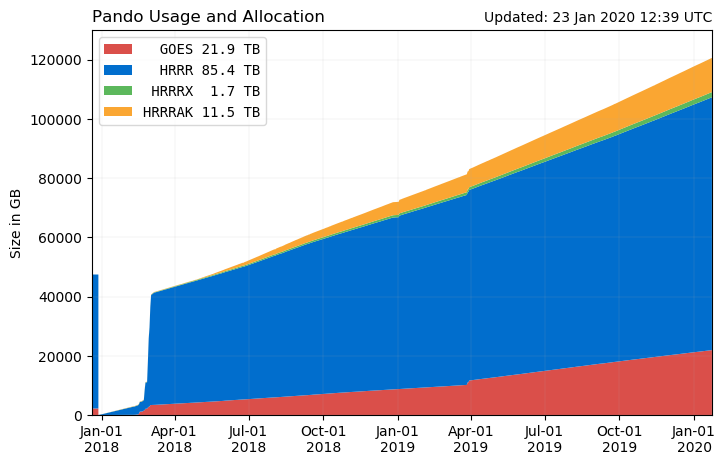
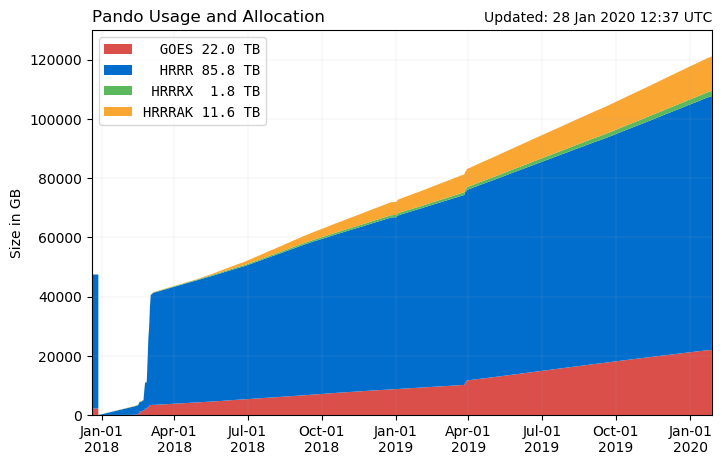
update

diff --git a/hrrr_FAQ.html b/hrrr_FAQ.html
@@ -562,16 +562,17 @@
                 <h3>Known published works that used this archive:</h3>
                 <p style='text-indent:-20px'>Blaylock, B.K., J.D. Horel, and E.T. Crosman, 2017: Impact of Lake Breezes on Summer Ozone Concentrations in the Salt Lake Valley. <i>J. Appl. Meteor. Climatol.</i>, <b>56</b>, 353-370, <a href='https://doi.org/10.1175/JAMC-D-16-0216.1'>https://doi.org/10.1175/JAMC-D-16-0216.1</a>
                 <p style='text-indent:-20px'>Blaylock, B.K., J.D. Horel, and C. Galli, 2018: High-Resolution Rapid Refresh Model Data Analytics Derived on the Open Science Grid to Assist Wildland Fire Weather Assessment. <i>J. Atmos. Oceanic Technol.</i>, <b>35</b>, 2213–2227, <a href='https://doi.org/10.1175/JTECH-D-18-0073.1'>https://doi.org/10.1175/JTECH-D-18-0073.1</a>.
+                <p style="text-indent:-20px">Bowes, B., J. Sadler, M. Morsy, M. Behl, and J. Goodall, 2019: Forecasting Groundwater Table in a Flood Prone Coastal City with Long Short-term Memory and Recurrent Neural Networks. <i>Water</i>, <b>11</b>, 1-38, <a href='https://doi.org/10.3390/w11051098'>https://doi.org/10.3390/w11051098</a>.
+                <p style="text-indent:-20px">Jackson, R., S. Collis, T. Lang, C. Potvin, T. Munson, 2019: PyDDA: A new Pythonic Wind Retrieval Package. <i>Proc. of the 18th Python in Science Conf.</i>, <a href='https://ntrs.nasa.gov/archive/nasa/casi.ntrs.nasa.gov/20190027316.pdf '>https://ntrs.nasa.gov/archive/nasa/casi.ntrs.nasa.gov/20190027316.pdf </a>.
                 <p style='text-indent:-20px'>Jain, R., Luo, X., Sever, G., Hong, T., and Catlett, C., 2018: Representation and evolution of urban weather boundary conditions in downtown Chicago. <i>J. of Building Performance Simulation</i>, <a href='https://doi.org/10.1080/19401493.2018.1534275'>https://doi.org/10.1080/19401493.2018.1534275</a>.
+                <p style="text-indent:-20px">Harkema, S., 2019: Improving Situational Awareness of Heavy-Snowfall Using the Geostationary Lightning Mapper. The University of Alabama in Huntsville, ProQuest Dissertations Publishing, 2019. 22592216.<a href="http://search.proquest.com/openview/599d54316495fd26d98d8e8e58bfcf72/1?pq-origsite=gscholar&cbl=18750&diss=y">ProQuest link</a></a></p>
+                <p style="text-indent:-20px">Lee, T.R., M. Buban, D.D. Turner, T.P. Meyers, and C.B. Baker, 2019: Evaluation of the High-Resolution Rapid Refresh (HRRR) Model Using Near-Surface Meteorological and Flux Observations from Northern Alabama. <i>Wea.Forecasting</i>, <b>34</b>, 635-663, <a href='https://doi.org/10.1175/WAF-D-18-0184.1 '>https://doi.org/10.1175/WAF-D-18-0184.1 </a>.
                 <p style='text-indent:-20px'>McCorkle, T.A., J.D. Horel, A.A. Jacques, and T. Alcott, 2018: Evaluating the Experimental High-Resolution Rapid Refresh-Alaska Modeling System Using USArray Pressure Observations. <i>Wea. Forecasting</i>, <b>33</b>, 933-953, <a href='https://doi.org/10.1175/WAF-D-17-0155.1'>https://doi.org/10.1175/WAF-D-17-0155.1</a>.
                 <p style="text-indent:-20px">McNicholas, C. and C.F. Mass, 2018: Impacts of Assimilating Smartphone Pressure Observations on Forecast Skill during Two Case Studies in the Pacific Northwest. <i>Wea. Forecasting</i>, <b>33</b>, 1375-1396,  <a href='https://doi.org/10.1175/WAF-D-18-0085.1'>https://doi.org/10.1175/WAF-D-18-0085.1</a>.  
                 <p style="text-indent:-20px">Poolla, C., and A. K. Ishihara, 2018: Localized solar power prediction based on weather data from local history and global forecasts. <i>45th IEEE Photovoltaic Specialists Conference</i>. <a href='https://arxiv.org/abs/1808.08657'>Link</a>.
-                <p style="text-indent:-20px">Rosenow, A.A., K. Howard, and J. Meitin, 2018: Gap-Filling Mobile Radar Observations of a Snow Squall in the San Luis Valley. <i>Mon. Wea. Rev.</i>, <b>146</b>, 2469-2481, <a href='https://doi.org/10.1175/MWR-D-17-0323.1'>https://doi.org/10.1175/MWR-D-17-0323.1</a>.    
-                <p style="text-indent:-20px">Bowes, B., J. Sadler, M. Morsy, M. Behl, and J. Goodall, 2019: Forecasting Groundwater Table in a Flood Prone Coastal City with Long Short-term Memory and Recurrent Neural Networks. <i>Water</i>, <b>11</b>, 1-38, <a href='https://doi.org/10.3390/w11051098'>https://doi.org/10.3390/w11051098</a>.
-                <p style="text-indent:-20px">Lee, T.R., M. Buban, D.D. Turner, T.P. Meyers, and C.B. Baker, 2019: Evaluation of the High-Resolution Rapid Refresh (HRRR) Model Using Near-Surface Meteorological and Flux Observations from Northern Alabama. <i>Wea.Forecasting</i>, <b>34</b>, 635-663, <a href='https://doi.org/10.1175/WAF-D-18-0184.1 '>https://doi.org/10.1175/WAF-D-18-0184.1 </a>.
-                <p style="text-indent:-20px">Jackson, R., S. Collis, T. Lang, C. Potvin, T. Munson, 2019: PyDDA: A new Pythonic Wind Retrieval Package. <i>Proc. of the 18th Python in Science Conf.</i>, <a href='https://ntrs.nasa.gov/archive/nasa/casi.ntrs.nasa.gov/20190027316.pdf '>https://ntrs.nasa.gov/archive/nasa/casi.ntrs.nasa.gov/20190027316.pdf </a>.
-                <p style="text-indent:-20px">Harkema, S., 2019: Improving Situational Awareness of Heavy-Snowfall Using the Geostationary Lightning Mapper. The University of Alabama in Huntsville, ProQuest Dissertations Publishing, 2019. 22592216.<a href="http://search.proquest.com/openview/599d54316495fd26d98d8e8e58bfcf72/1?pq-origsite=gscholar&cbl=18750&diss=y">ProQuest link</a></a></p>
                 <p style="text-indent:-20px">Radford, J.T., G.M. Lackmann, and M.A. Baxter, 2019: An evaluation of snowband predictability in the High-Resolution Rapid Refresh. <i>Wea. Forecasting</i>, <b>34</b>, 1477–1494, <a href='https://doi.org/10.1175/WAF-D-19-0089.1'>https://doi.org/10.1175/WAF-D-19-0089.1</a>.
+                <p style="text-indent:-20px">Rosenow, A.A., K. Howard, and J. Meitin, 2018: Gap-Filling Mobile Radar Observations of a Snow Squall in the San Luis Valley. <i>Mon. Wea. Rev.</i>, <b>146</b>, 2469-2481, <a href='https://doi.org/10.1175/MWR-D-17-0323.1'>https://doi.org/10.1175/MWR-D-17-0323.1</a>.    
+                <p style="text-indent:-20px">Zick, S. E., 2020: Quantifying Extreme Precipitation Forecasting Skill in High-Resolution Models Using Spatial Patterns: A Case Study of the 2016 and 2018 Ellicott City Floods <i>Atmosphere</i>, <b>11</b>, 1-25, <a href='https://doi.org/10.3390/atmos11020136'>https://doi.org/10.3390/atmos11020136</a>.
             </div> 
             </div>
 

diff --git a/Pando_archive/index.html b/Pando_archive/index.html
@@ -46,7 +46,7 @@
 
 <br>
   <script src='./js/pando_status.js'></script>
-    <center><font size=12> 120.6 TB out of 130 TB</font>
+    <center><font size=12> 121.1 TB out of 130 TB</font>
     <div class="progress" style="max-width:700px;height:35px">
             <div class="progress-bar progress-bar-danger" role="progressbar" style="width:17%">
               <font size=4></font>
@@ -73,9 +73,9 @@
         <th style='text-align:center'>Estimated Full Date</th>
       </tr>
       <tr>
-        <td>122.02 GB</td>
-        <td>77</td>
-        <td>09 April 2020</td>
+        <td>131.00 GB</td>
+        <td>67</td>
+        <td>04 April 2020</td>
       </tr>
     </table>
     <table class="table table-bordered" style='text-align:center;max-width:700px'>
@@ -86,18 +86,18 @@
       </tr>
       <tr>
         <th style='text-align:right'>ABI-L2-MCMIPC</th>
-        <td>10.90</td>
-        <td>10.88</td>
+        <td>14.56</td>
+        <td>15.07</td>
       </tr>
       <tr>
         <th style='text-align:right'>GLM-L2-LCFA</th>
-        <td>1.23</td>
-        <td>0.54</td>
+        <td>1.49</td>
+        <td>0.66</td>
       </tr>
       <tr>
         <th style='text-align:right'>Total</th>
-        <th style='text-align:center'>12.13 GB</th>
-        <th style='text-align:center'>11.42 GB</th>
+        <th style='text-align:center'>16.06 GB</th>
+        <th style='text-align:center'>15.74 GB</th>
       </tr>
     </table>
 
@@ -111,13 +111,13 @@
       </tr>
       <tr>
         <th style='text-align:right'>sfc</th>
-        <td>69.42</td>
-        <td>2.30</td>
-        <td>17.65</td>
+        <td>68.46</td>
+        <td>3.53</td>
+        <td>18.52</td>
       </tr>
       <tr>
         <th style='text-align:right'>prs</th>
-        <td>9.10</td>
+        <td>8.70</td>
         <td>0.00</td>
         <td>0.00</td>
       </tr>
@@ -129,9 +129,9 @@
       </tr>
       <tr>
         <th style='text-align:right'>Total</th>
-        <th style='text-align:center'>78.52 GB</th>
-        <th style='text-align:center'>2.30 GB</th>
-        <th style='text-align:center'>17.65 GB</th>
+        <th style='text-align:center'>77.15 GB</th>
+        <th style='text-align:center'>3.53 GB</th>
+        <th style='text-align:center'>18.52 GB</th>
       </tr>
     </table>
 
@@ -142,7 +142,7 @@
     <a href="https://github.com/blaylockbk/Web-Homepage/blob/master/Pando_archive/index.html"><i class="fab fa-github"></i> Page</a>
     <a href="https://github.com/blaylockbk/Web-Homepage/blob/master/Pando_archive/daily_usage.py"><i class="fab fa-github"></i> Plot</a>
     <br>
-    Last Updated: 23 Jan 2020 12:39 UTC
+    Last Updated: 28 Jan 2020 12:37 UTC
   </div>
 
 </div>
